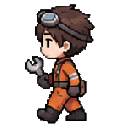
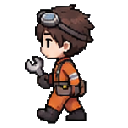
Інженер без скафандра: одна й та сама сумка в усіх кадрах ходьби вбік, пози чергуються через кадр, «стоїть» = кадр ходьби (без стрибка розміру й ключа)
Claude-Session: https://claude.ai/code/session_01ApBw6CwDRhV6Mr72XkFQTQ

Changed region(s): [[0.4062, 0.6562, 0.5938, 0.75]]

diff --git a/Assets/_Project/Scripts/Editor/EngineerSetupTool.cs b/Assets/_Project/Scripts/Editor/EngineerSetupTool.cs
@@ -50,8 +50,10 @@ public static class EngineerSetupTool
         // engineer_left_profile_walk_.. (вправо — дзеркально)
         ctrl.indoor = new EngineerController.SpriteSet
         {
-            idleFront = Load(IndoorDir, "engineer_front") ?? Load(IndoorDir, "engineer_front_128"),
-            idleBack = Load(IndoorDir, "engineer_back") ?? Load(IndoorDir, "engineer_back_128"),
+            // «Стоїть» — кадр ходьби з обома ногами на землі, а не engineer_front/back:
+            // ті намальовані крупніше і з ключем в іншій руці, тож при старті ходьби фігура «стрибала».
+            idleFront = Load(IndoorDir, "engineer_front_walk_02") ?? Load(IndoorDir, "engineer_front"),
+            idleBack = Load(IndoorDir, "engineer_back_walk_02") ?? Load(IndoorDir, "engineer_back"),
             walkFront = Frames(IndoorDir, "engineer_front_walk_"),
             walkBack = Frames(IndoorDir, "engineer_back_walk_"),
             walkLeft = Frames(IndoorDir, "engineer_left_profile_walk_"),
